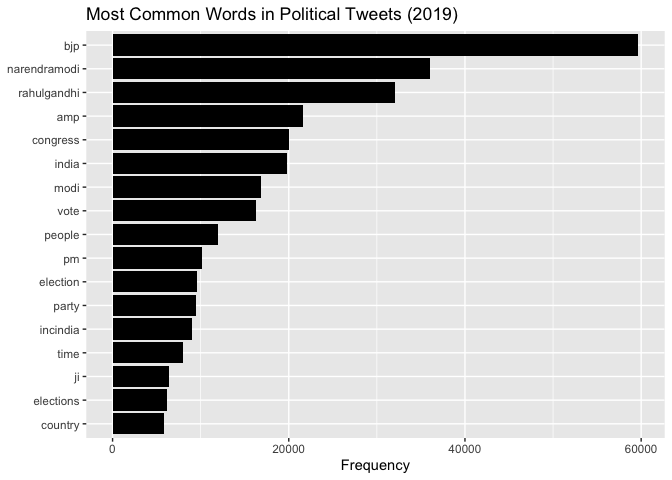
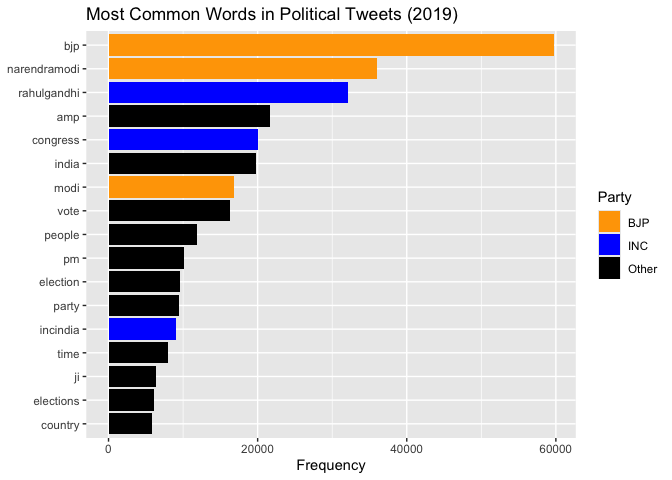
changes after instructor meeting

Changed region(s): [[0.1562, 0.0625, 1.0, 0.9688], [0.375, 0.9062, 0.625, 1.0], [0.6562, 0.9062, 0.7188, 0.9688]]

diff --git a/README.html b/README.html
@@ -60,10 +60,10 @@ on grammatical fillers.
 ``` r
 data("stop_words")   #tidytext package list of words, conjunctions, verbs and adverbs which are pretty redundunt in textual analysis. I got senser of this from https://stackoverflow.com/questions/72498240/removing-stop-words-from-text-in-r
 tweet_words <- tweets %>%
-  select(user, date, text) %>%     #only selecting the three columns 
-  unnest_tokens(word, text) %>%    #text column words take and split into smaller words, if tweet had 6 words it becomes 6 different rows
-  filter(!word %in% stop_words$word,      #removes filler words from word df
-         str_detect(word, "^[a-z']+$"))   #filters out numerics, symbols
+  select(user, date, text) %>%               # I have only selected user, date and text column
+  unnest_tokens(word, text) %>%              # convert the text into a format that is one word per row format for analysis
+  filter(str_detect(word, "^[a-z']+$")) %>%  
+  anti_join(stop_words, by = "word")   #remove out hashtags, numerical words and others using antijoin
 ```
 
 ## WORD FREQUENCY ANALYSIS
@@ -84,13 +84,15 @@ suggesting targeted narratives and ideological leanings. It also gave me
 a sense of who was pushing which messages more aggressively.
 
 ``` r
-top_words <- tweet_words %>% count(word, sort = TRUE) %>%top_n(17)
+top_words <- tweet_words %>%count(word, sort = TRUE) %>%top_n(17) %>%
+  mutate(party_color = case_when(word %in% c("bjp", "narendramodi", "modi") ~ "BJP",word %in% c("rahulgandhi", "incindia", "congress") ~ "INC",
+TRUE ~ "Other"))                                          # words related to bjp and words related inc are grouped together for better visualisation purpose
                                                           # frequency of words appearing in the word df that i had created initially, I select top 17 words
-ggplot(top_words, aes(x = reorder(word, n), y = n)) + geom_col(fill = "black") +
-  coord_flip() +
-  labs(title = "Most Common Words in Political Tweets (2019)",
-       x = NULL, y = "Frequency") +
-  theme_grey()
+ggplot(top_words, aes(x = reorder(word, n), y = n, fill = party_color)) +
+  geom_col() +coord_flip() +scale_fill_manual(values = c("BJP" = "orange", "INC" = "blue", "Other" = "black")) +
+  labs(title = "Most Common Words in Political Tweets (2019)",x = NULL, y = "Frequency", fill = "Party"
+  ) +
+  theme_grey()                                           #plot having all BJP related things in orange and INC related things in blue after comments from instructor meeting
 ```
 
 ![](README_files/figure-gfm/frequently%20used%20words-1.png)<!-- -->
@@ -246,7 +248,7 @@ tweets <- tweets %>% mutate(party = map_chr(text, detect_party)) %>%filter(party
 tidy_tweets <- tweets %>%
   unnest_tokens(word, text) %>%                     #break tweet into indiv words and then remove filler words and numbers, hashtags and punctuations
   anti_join(stop_words, by = "word") %>%
-  filter(str_detect(word, "^[a-z]+$"))
+  filter(str_detect(word, "^[a-z]+$"))              #filter out the hashtags, numerics which are not used in our study or analysis
 ```
 
 ## SENTIMENT BY PARTY

diff --git a/README.md b/README.md
@@ -60,10 +60,10 @@ on grammatical fillers.
 ``` r
 data("stop_words")   #tidytext package list of words, conjunctions, verbs and adverbs which are pretty redundunt in textual analysis. I got senser of this from https://stackoverflow.com/questions/72498240/removing-stop-words-from-text-in-r
 tweet_words <- tweets %>%
-  select(user, date, text) %>%     #only selecting the three columns 
-  unnest_tokens(word, text) %>%    #text column words take and split into smaller words, if tweet had 6 words it becomes 6 different rows
-  filter(!word %in% stop_words$word,      #removes filler words from word df
-         str_detect(word, "^[a-z']+$"))   #filters out numerics, symbols
+  select(user, date, text) %>%               # I have only selected user, date and text column
+  unnest_tokens(word, text) %>%              # convert the text into a format that is one word per row format for analysis
+  filter(str_detect(word, "^[a-z']+$")) %>%  
+  anti_join(stop_words, by = "word")   #remove out hashtags, numerical words and others using antijoin
 ```
 
 ## WORD FREQUENCY ANALYSIS
@@ -84,13 +84,15 @@ suggesting targeted narratives and ideological leanings. It also gave me
 a sense of who was pushing which messages more aggressively.
 
 ``` r
-top_words <- tweet_words %>% count(word, sort = TRUE) %>%top_n(17)
+top_words <- tweet_words %>%count(word, sort = TRUE) %>%top_n(17) %>%
+  mutate(party_color = case_when(word %in% c("bjp", "narendramodi", "modi") ~ "BJP",word %in% c("rahulgandhi", "incindia", "congress") ~ "INC",
+TRUE ~ "Other"))                                          # words related to bjp and words related inc are grouped together for better visualisation purpose
                                                           # frequency of words appearing in the word df that i had created initially, I select top 17 words
-ggplot(top_words, aes(x = reorder(word, n), y = n)) + geom_col(fill = "black") +
-  coord_flip() +
-  labs(title = "Most Common Words in Political Tweets (2019)",
-       x = NULL, y = "Frequency") +
-  theme_grey()
+ggplot(top_words, aes(x = reorder(word, n), y = n, fill = party_color)) +
+  geom_col() +coord_flip() +scale_fill_manual(values = c("BJP" = "orange", "INC" = "blue", "Other" = "black")) +
+  labs(title = "Most Common Words in Political Tweets (2019)",x = NULL, y = "Frequency", fill = "Party"
+  ) +
+  theme_grey()                                           #plot having all BJP related things in orange and INC related things in blue after comments from instructor meeting
 ```
 
 ![](README_files/figure-gfm/frequently%20used%20words-1.png)<!-- -->
@@ -246,7 +248,7 @@ tweets <- tweets %>% mutate(party = map_chr(text, detect_party)) %>%filter(party
 tidy_tweets <- tweets %>%
   unnest_tokens(word, text) %>%                     #break tweet into indiv words and then remove filler words and numbers, hashtags and punctuations
   anti_join(stop_words, by = "word") %>%
-  filter(str_detect(word, "^[a-z]+$"))
+  filter(str_detect(word, "^[a-z]+$"))              #filter out the hashtags, numerics which are not used in our study or analysis
 ```
 
 ## SENTIMENT BY PARTY
